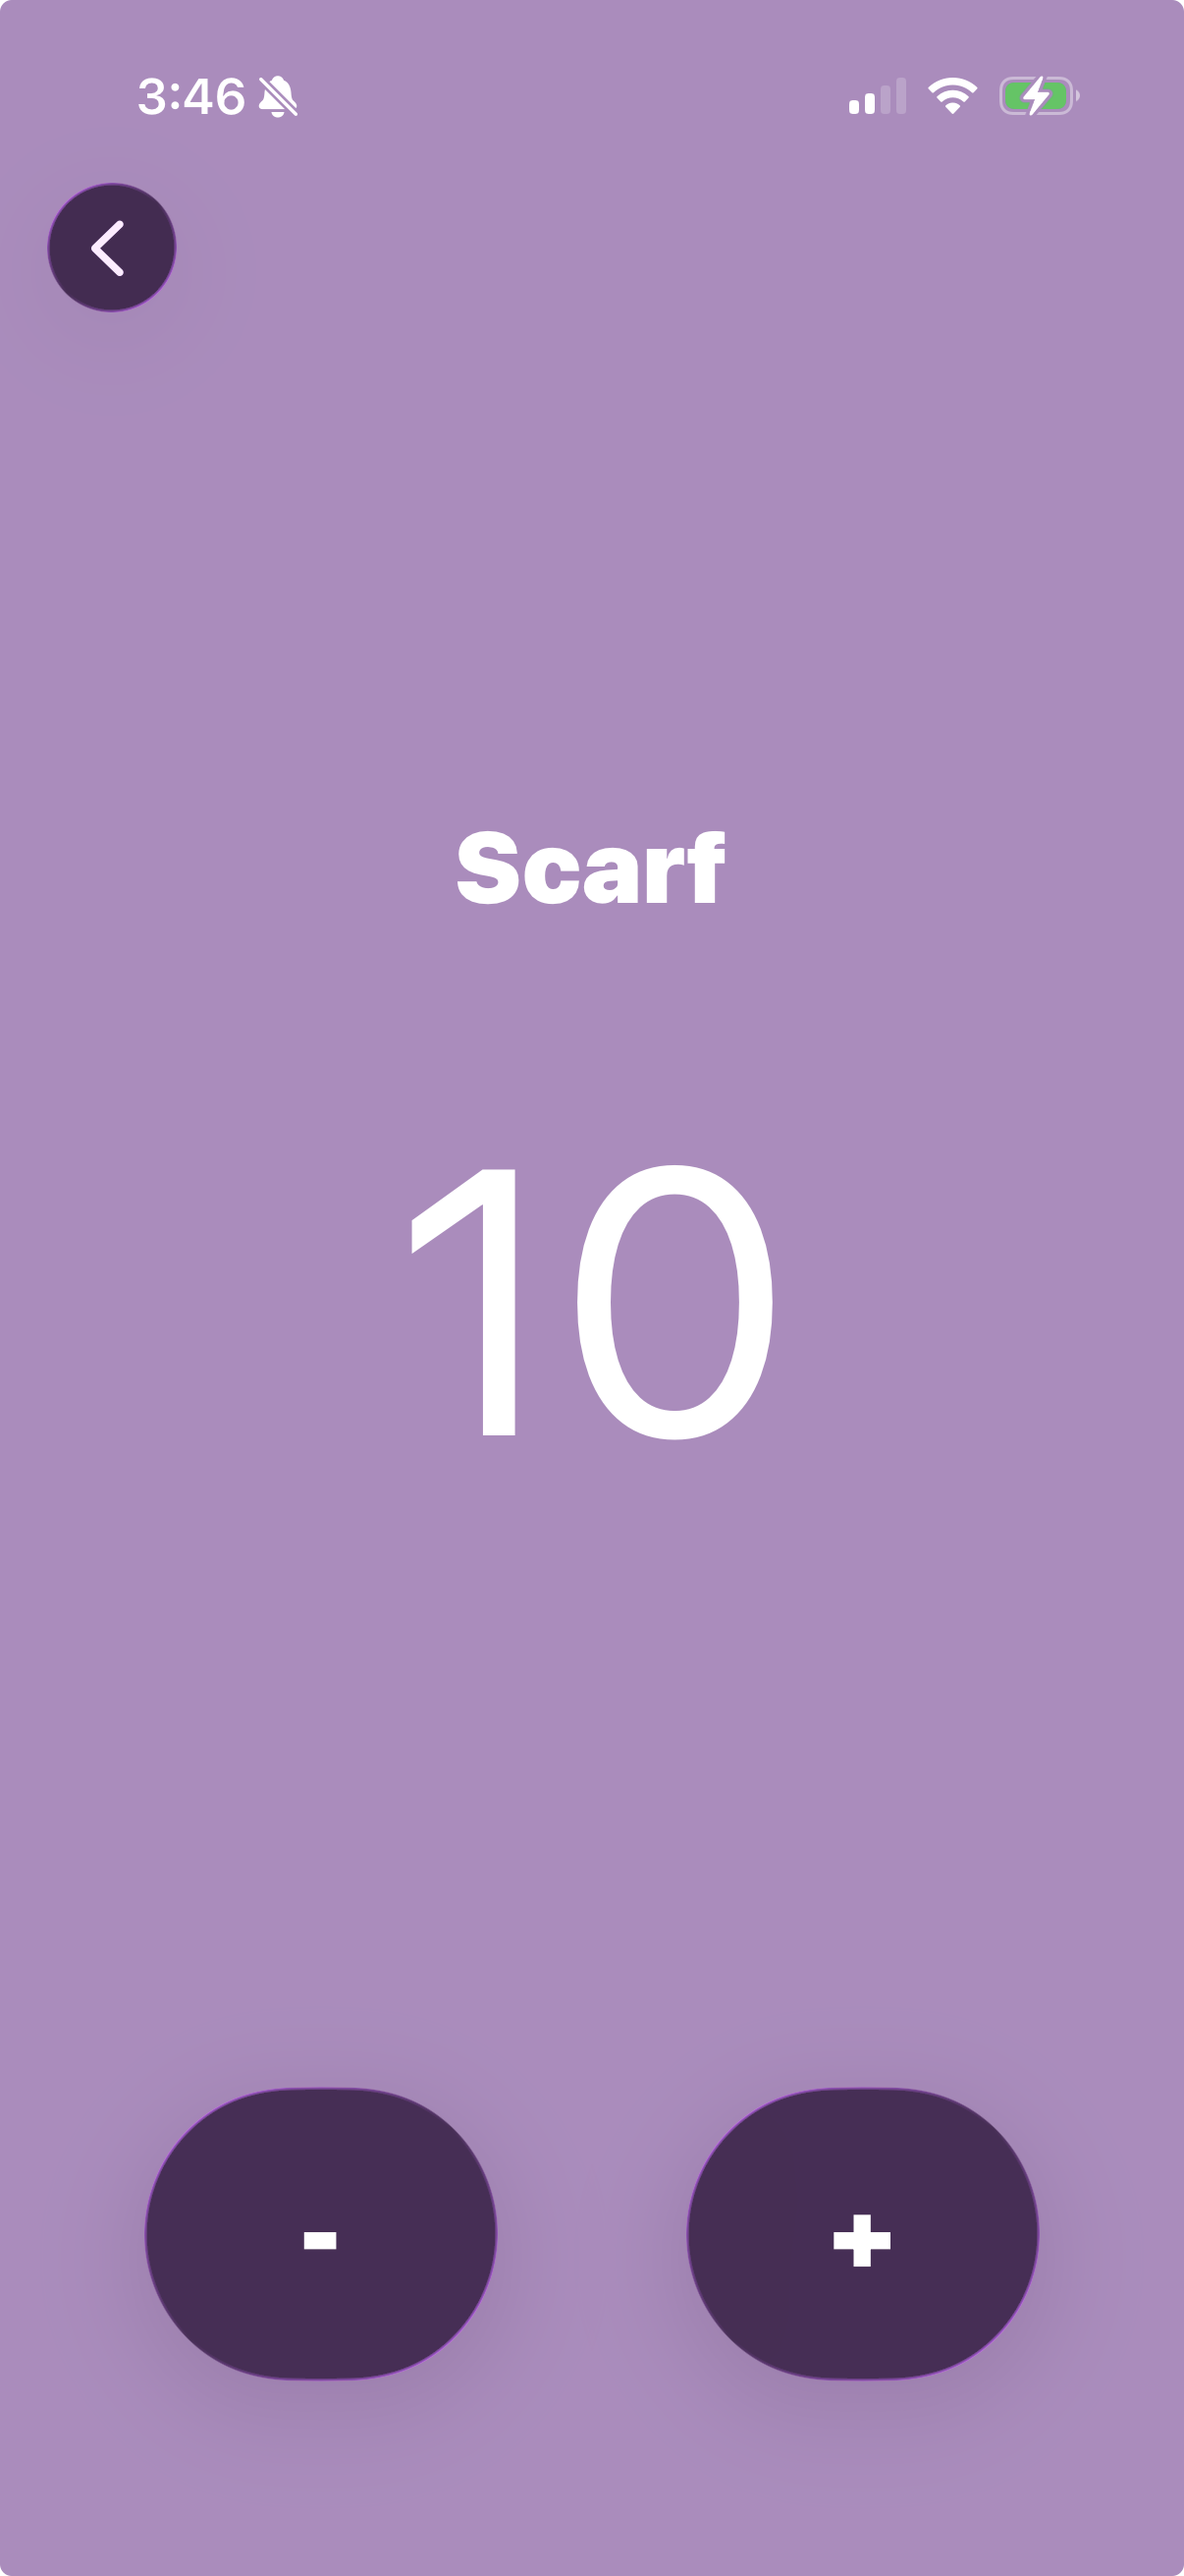
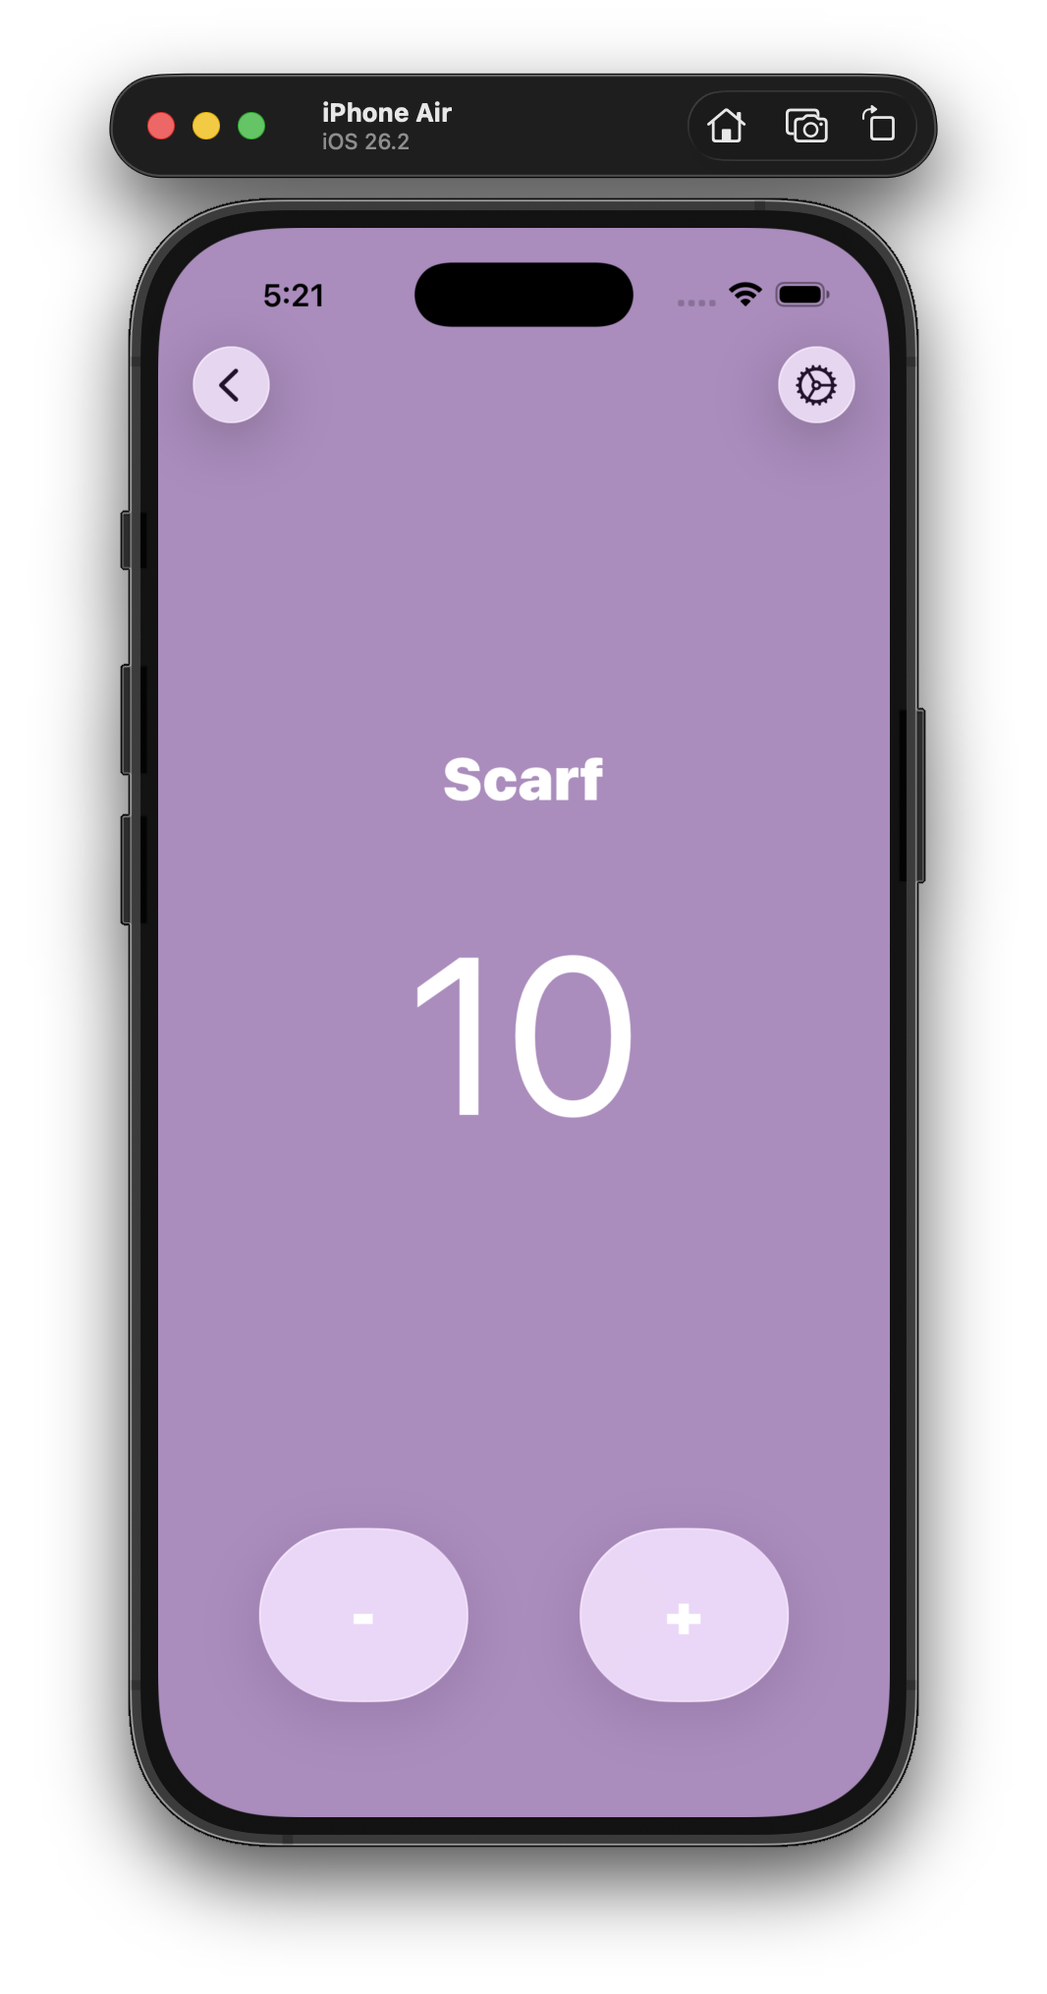
Copy updates, screenshot update

diff --git a/Cnotta/Views/EditProjectForm.swift b/Cnotta/Views/EditProjectForm.swift
@@ -21,6 +21,7 @@ struct EditProjectForm: View {
     @State private var isPresentingAlertDialog: Bool = false
     
     let project: Project
+    let initialName: String
     let onDelete: (() -> Void)?
     
     private var createDateString: String {
@@ -32,6 +33,7 @@ struct EditProjectForm: View {
     init(project: Project, onDelete: (() -> Void)? = nil) {
         self.project = project
         self.name = project.name
+        self.initialName = project.name
         self.color = Color.fromHexCode(project.color)
         self.onDelete = onDelete
     }
@@ -40,7 +42,7 @@ struct EditProjectForm: View {
         NavigationStack {
             Form {
                 Section("Name") {
-                    TextField(projectNamePlaceholders.randomElement() ?? "", text: $name)
+                    TextField(initialName, text: $name)
                         .accessibilityLabel(Text("Project name"))
                 }
                 Section("Color") {
@@ -54,7 +56,7 @@ struct EditProjectForm: View {
                 }
                 .foregroundStyle(.red)
             }
-            .alert("Are you sure you want to delete \"\(name)\"?", isPresented: $isPresentingAlertDialog, actions: {
+            .alert("Are you sure you want to delete this project?", isPresented: $isPresentingAlertDialog, actions: {
                 Button(role: .destructive, action: {
                     deleteProject()
                 }, label: {
@@ -66,7 +68,7 @@ struct EditProjectForm: View {
                     Text("Cancel")
                 })
             })
-            .navigationTitle(Text(name))
+            .navigationTitle("Edit Project")
             .toolbar {
                 ToolbarItemGroup(placement: .topBarLeading) {
                     Button(role: .destructive) {

diff --git a/Cnotta/Views/ProjectsList.swift b/Cnotta/Views/ProjectsList.swift
@@ -33,7 +33,7 @@ struct ProjectsList: View {
                 } else {
                     Group {
                         Spacer()
-                        ContentUnavailableView("No projects", image: "exclamationmark.circle", description: Text("Tap the plus button to get started!"))
+                        ContentUnavailableView("Nothing yet!", image: "exclamationmark.circle", description: Text("Why not create your first project?"))
                         Spacer()
                     }
                 }
